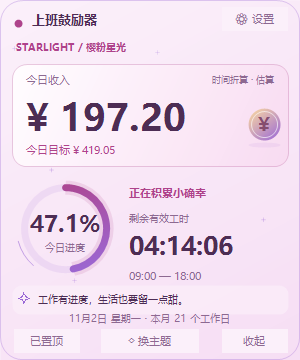
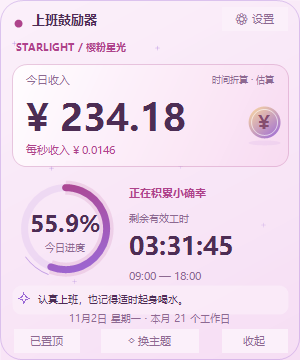
Show per-second earnings and add deduplicated daily clock-out summary

diff --git a/src/WorkEncourager.cs b/src/WorkEncourager.cs
@@ -21,6 +21,8 @@ public class Settings
     public bool RemindersEnabled = false;
     public int ReminderMode = 0;
     public int WaterIntervalMinutes = 30, RestroomIntervalMinutes = 30;
+    public bool DailySummaryEnabled = true;
+    public string LastSummaryDate = "";
     public string ManualMonth = DateTime.Today.ToString("yyyy-MM");
     public DateTime DoubleSaturday = new DateTime(2026, 10, 31);
 
@@ -50,7 +52,7 @@ public sealed class Snapshot
     public bool WorkingDay;
     public double Total, Elapsed, Progress, Remaining;
     public int MonthDays;
-    public decimal Daily, Earned;
+    public decimal Daily, Earned, PerSecond;
     public string Status;
 }
 
@@ -98,9 +100,16 @@ public static class WorkClock
         result.Remaining = total - result.Elapsed;
         result.MonthDays = s.ManualDays && s.ManualMonth == now.ToString("yyyy-MM") ? s.Days : CountDays(s, now);
         result.Daily = s.MonthlySalary / result.MonthDays;
+        result.PerSecond = result.Daily / (decimal)total;
         result.Earned = result.Daily * (decimal)result.Progress;
         result.Status = !result.WorkingDay ? "今日休息" : now < start ? "尚未开工" : now >= end ? "今日已下班" : s.HasBreak && now >= pause && now < resume ? "午休充电中" : "正在积累小确幸";
         return result;
+    }
+    public static bool SummaryDue(Settings settings, DateTime now)
+    {
+        // 只补发当天的总结，日期随配置保存，重启和重新打开设置都不会重复弹出。
+        return settings.DailySummaryEnabled && settings.MonthlySalary > 0 && IsWorkingDay(settings, now) &&
+            now.TimeOfDay >= TimeSpan.Parse(settings.End) && settings.LastSummaryDate != now.ToString("yyyy-MM-dd", CultureInfo.InvariantCulture);
     }
 }
 
@@ -165,7 +174,7 @@ public sealed class SettingsForm : Form
     private NumericUpDown salary, dayCount, waterInterval, restroomInterval;
     private ComboBox mode, rest, reminderMode, widgetSize;
     private DateTimePicker start, end, pause, resume, anchor;
-    private CheckBox lunch, manual, onTop, reminders;
+    private CheckBox lunch, manual, onTop, reminders, dailySummary;
     private Label calculated;
     private readonly Color ink = Color.FromArgb(32, 47, 44);
 
@@ -176,7 +185,7 @@ public sealed class SettingsForm : Form
         Font = new Font("Microsoft YaHei UI", 10);
         BackColor = Color.FromArgb(245, 248, 245);
         ForeColor = ink;
-        ClientSize = new Size(470, 818);
+        ClientSize = new Size(470, 854);
         FormBorderStyle = FormBorderStyle.FixedDialog;
         MaximizeBox = false; MinimizeBox = false; StartPosition = FormStartPosition.CenterScreen;
         AutoScaleMode = AutoScaleMode.Dpi;
@@ -218,13 +227,14 @@ public sealed class SettingsForm : Form
         waterInterval = new NumericUpDown { Name = "WaterInterval", Location = new Point(155, 574), Width = 62, Minimum = 1, Maximum = 1440, Value = settings.WaterIntervalMinutes }; Controls.Add(waterInterval);
         LabelAt("如厕间隔 / 分", 236, 576, 127);
         restroomInterval = new NumericUpDown { Name = "RestroomInterval", Location = new Point(379, 574), Width = 62, Minimum = 1, Maximum = 1440, Value = settings.RestroomIntervalMinutes }; Controls.Add(restroomInterval);
-        Label reminderNote = LabelAt("按各自间隔累计上班时间，午休暂停。\n同时到期合并弹窗；保存设置或重启后重新计时。", 24, 619, 422);
+        dailySummary = new CheckBox { Name = "DailySummary", Text = "下班时弹窗汇总今日收入", Location = new Point(24, 617), Size = new Size(410, 29), Checked = settings.DailySummaryEnabled }; Controls.Add(dailySummary);
+        Label reminderNote = LabelAt("间隔按上班时间累计，午休暂停，同时到期合并。\n下班总结当天补发一次；保存或重启重计休息间隔。", 24, 655, 422);
         reminderNote.Size = new Size(422, 50); reminderNote.Font = new Font(Font.FontFamily, 9);
-        Label note = LabelAt("自动天数不含节假日和调休；手动覆盖仅当月有效。\n手动天数影响日薪；每日是否上班仍按休息制判断。", 24, 682, 422);
+        Label note = LabelAt("自动天数不含节假日和调休；手动覆盖仅当月有效。\n手动天数影响日薪；每日是否上班仍按休息制判断。", 24, 718, 422);
         note.Size = new Size(422, 52); note.Font = new Font(Font.FontFamily, 9); note.ForeColor = calculated.ForeColor;
-        Button save = new Button { Text = "保存设置", Location = new Point(252, 751), Size = new Size(189, 43), BackColor = Color.FromArgb(31, 94, 74), ForeColor = Color.White, FlatStyle = FlatStyle.Flat };
+        Button save = new Button { Text = "保存设置", Location = new Point(252, 787), Size = new Size(189, 43), BackColor = Color.FromArgb(31, 94, 74), ForeColor = Color.White, FlatStyle = FlatStyle.Flat };
         save.FlatAppearance.BorderSize = 0; Controls.Add(save);
-        Button cancel = new Button { Text = "取消", Location = new Point(142, 751), Size = new Size(94, 43), DialogResult = DialogResult.Cancel }; Controls.Add(cancel);
+        Button cancel = new Button { Text = "取消", Location = new Point(142, 787), Size = new Size(94, 43), DialogResult = DialogResult.Cancel }; Controls.Add(cancel);
         AcceptButton = save; CancelButton = cancel;
         if (settings.Theme == 0)
         {
@@ -290,6 +300,7 @@ public sealed class SettingsForm : Form
             next.HasBreak = lunch.Checked; next.BreakStart = pause.Value.ToString("HH:mm"); next.BreakEnd = resume.Value.ToString("HH:mm"); next.AlwaysOnTop = onTop.Checked;
             next.RemindersEnabled = reminders.Checked; next.ReminderMode = reminderMode.SelectedIndex;
             next.WaterIntervalMinutes = (int)waterInterval.Value; next.RestroomIntervalMinutes = (int)restroomInterval.Value;
+            next.DailySummaryEnabled = dailySummary.Checked;
             next.WidgetSize = widgetSize.SelectedIndex;
             try { Storage.Save(next); Result = next; DialogResult = DialogResult.OK; Close(); }
             catch (Exception ex) { MessageBox.Show(this, ex.Message, "设置未保存", MessageBoxButtons.OK, MessageBoxIcon.Warning); }
@@ -311,10 +322,12 @@ public sealed class ReminderPopup : Form
 {
     private readonly System.Windows.Forms.Timer dismiss = new System.Windows.Forms.Timer();
     private readonly Color accent;
-    public ReminderPopup(string message, int theme)
+    private readonly bool summary;
+    public ReminderPopup(string message, int theme, bool dailySummary = false)
     {
+        summary = dailySummary;
         bool pink = theme == 1;
-        Text = "休息提醒 · 上班鼓励器"; ClientSize = new Size(350, 177);
+        Text = summary ? "下班总结 · 上班鼓励器" : "休息提醒 · 上班鼓励器"; ClientSize = new Size(350, 177);
         AutoScaleMode = AutoScaleMode.None; FormBorderStyle = FormBorderStyle.None;
         StartPosition = FormStartPosition.Manual; ShowInTaskbar = false; TopMost = true;
         BackColor = pink ? Color.FromArgb(253, 239, 250) : Color.FromArgb(20, 30, 53);
@@ -324,7 +337,7 @@ public sealed class ReminderPopup : Form
         Rectangle area = Screen.FromPoint(Cursor.Position).WorkingArea;
         Location = new Point(area.Right - Width - 20, area.Bottom - Height - 20);
         using (GraphicsPath path = Widget.Rounded(ClientRectangle, 18)) Region = new Region(path);
-        Controls.Add(new Label { Text = "该给自己一点休息时间了", Font = new Font(Font.FontFamily, 11, FontStyle.Bold), Bounds = new Rectangle(72, 24, 260, 27), ForeColor = ForeColor });
+        Controls.Add(new Label { Text = summary ? "下班啦，今天辛苦了！" : "该给自己一点休息时间了", Font = new Font(Font.FontFamily, 11, FontStyle.Bold), Bounds = new Rectangle(72, 24, 260, 27), ForeColor = ForeColor });
         Controls.Add(new Label { Text = message, Bounds = new Rectangle(72, 61, 258, 47), ForeColor = ForeColor });
         Button close = new Button { Text = "知道了", Bounds = new Rectangle(232, 126, 96, 31), FlatStyle = FlatStyle.Flat, BackColor = BackColor, ForeColor = accent, Cursor = Cursors.Hand };
         close.FlatAppearance.BorderColor = accent; close.Click += delegate { Close(); }; Controls.Add(close);
@@ -344,8 +357,16 @@ public sealed class ReminderPopup : Form
         using (Pen pen = new Pen(accent, 2))
         {
             using (GraphicsPath path = Widget.Rounded(new Rectangle(0, 0, Width - 1, Height - 1), 18)) g.DrawPath(pen, path);
-            g.DrawLine(pen, 26, 38, 30, 68); g.DrawLine(pen, 30, 68, 49, 68); g.DrawLine(pen, 49, 68, 53, 38); g.DrawLine(pen, 26, 38, 53, 38);
-            g.DrawArc(pen, 46, 43, 15, 17, -90, 180); g.DrawLine(pen, 31, 51, 48, 51);
+            if (summary)
+            {
+                g.DrawEllipse(pen, 25, 36, 33, 33);
+                TextRenderer.DrawText(g, "¥", Font, new Rectangle(25, 36, 33, 33), accent, TextFormatFlags.HorizontalCenter | TextFormatFlags.VerticalCenter);
+            }
+            else
+            {
+                g.DrawLine(pen, 26, 38, 30, 68); g.DrawLine(pen, 30, 68, 49, 68); g.DrawLine(pen, 49, 68, 53, 38); g.DrawLine(pen, 26, 38, 53, 38);
+                g.DrawArc(pen, 46, 43, 15, 17, -90, 180); g.DrawLine(pen, 31, 51, 48, 51);
+            }
         }
     }
     protected override void Dispose(bool disposing)
@@ -409,9 +430,20 @@ public sealed class Widget : Form
         reminderTimer.Interval = 1000;
         reminderTimer.Tick += delegate
         {
-            string message = reminderClock.Poll(settings, DateTime.Now);
+            DateTime now = DateTime.Now;
+            bool summary = WorkClock.SummaryDue(settings, now);
+            string message;
+            if (summary)
+            {
+                message = "你今日赚了 ¥" + WorkClock.At(settings, now).Earned.ToString("N2") + "（估算）。";
+                settings.LastSummaryDate = now.ToString("yyyy-MM-dd", CultureInfo.InvariantCulture);
+                try { Storage.Save(settings); }
+                catch (Exception ex) { MessageBox.Show(this, "下班总结状态未能保存，重启后可能再次提示。\n" + ex.Message, "设置未保存"); }
+                if (reminderPopup != null) reminderPopup.Close();
+            }
+            else message = reminderClock.Poll(settings, now);
             if (message == null || (reminderPopup != null && !reminderPopup.IsDisposed)) return;
-            ReminderPopup popup = new ReminderPopup(message, settings.Theme); reminderPopup = popup;
+            ReminderPopup popup = new ReminderPopup(message, settings.Theme, summary); reminderPopup = popup;
             popup.FormClosed += delegate { popup.Dispose(); if (reminderPopup == popup) reminderPopup = null; };
             popup.Show();
         };
@@ -543,7 +575,7 @@ public sealed class Widget : Form
         using (LinearGradientBrush gold = new LinearGradientBrush(new Rectangle(coinX, (int)coinY, coinSize, coinSize), pink ? Color.FromArgb(255, 222, 158) : accent, secondary, 50f)) g.FillEllipse(gold, coinX, coinY, coinSize, coinSize);
         using (Pen coin = new Pen(Color.FromArgb(160, Color.White))) g.DrawEllipse(coin, coinX + 3, coinY + 3, coinSize - 6, coinSize - 6);
         Write(g, "¥", mini ? 12 : 14, pink ? Color.FromArgb(133, 77, 110) : Color.FromArgb(15, 37, 66), new RectangleF(coinX, coinY, coinSize, coinSize), FontStyle.Bold, StringAlignment.Center);
-        Write(g, settings.MonthlySalary == 0 ? "填入月薪，点亮收入进度" : "今日目标 ¥ " + value.Daily.ToString("N2"), mini ? 7.5f : 8, accent, new RectangleF(pad + 12, mini ? 118 : 141, Width - 40, 19), FontStyle.Regular, StringAlignment.Near);
+        Write(g, settings.MonthlySalary == 0 ? "设置薪资后显示每秒收入" : "每秒收入 ¥ " + value.PerSecond.ToString(value.PerSecond >= 0.0001m ? "0.0000" : "0.0000########"), mini ? 7.5f : 8, accent, new RectangleF(pad + 12, mini ? 118 : 141, Width - 40, 19), FontStyle.Regular, StringAlignment.Near);
         int rx = mini ? 20 : 24, ry = mini ? 154 : 187, diameter = mini ? 66 : 82;
         Rectangle ring = new Rectangle(rx, ry, diameter, diameter);
         using (Pen track = new Pen(Color.FromArgb(30, secondary), mini ? 6 : 7)) g.DrawEllipse(track, ring);
@@ -585,7 +617,7 @@ public static class Program
         {
             for (int theme = 0; theme < 2; theme++)
             for (int size = 0; size < 2; size++)
-                using (Widget preview = new Widget(new Settings { MonthlySalary = 8800, Theme = theme, WidgetSize = size }))
+                using (Widget preview = new Widget(new Settings { MonthlySalary = 8800, Theme = theme, WidgetSize = size, DailySummaryEnabled = false }))
                 using (Bitmap bitmap = new Bitmap(preview.Width, preview.Height))
                 {
                     preview.Opacity = 0; preview.Show(); Application.DoEvents(); preview.DrawToBitmap(bitmap, preview.ClientRectangle); preview.Hide();
@@ -597,6 +629,13 @@ public static class Program
                 {
                     preview.Opacity = 0; preview.Show(); Application.DoEvents(); preview.DrawToBitmap(bitmap, preview.ClientRectangle); preview.Hide();
                     bitmap.Save(Path.Combine(AppDomain.CurrentDomain.BaseDirectory, theme == 0 ? "reminder-neon.png" : "reminder-starlight.png"));
+                }
+            for (int theme = 0; theme < 2; theme++)
+                using (ReminderPopup preview = new ReminderPopup("你今日赚了 ¥400.00（估算）。", theme, true))
+                using (Bitmap bitmap = new Bitmap(preview.Width, preview.Height))
+                {
+                    preview.Opacity = 0; preview.Show(); Application.DoEvents(); preview.DrawToBitmap(bitmap, preview.ClientRectangle); preview.Hide();
+                    bitmap.Save(Path.Combine(AppDomain.CurrentDomain.BaseDirectory, theme == 0 ? "summary-neon.png" : "summary-starlight.png"));
                 }
             using (SettingsForm preview = new SettingsForm(new Settings { MonthlySalary = 8800 }))
             {
@@ -638,7 +677,7 @@ public static class Tests
         };
         try
         {
-            Settings s = new Settings { MonthlySalary = 8800, ManualDays = true, Days = 22, ManualMonth = "2026-11" };
+            Settings s = new Settings { MonthlySalary = 8800, ManualDays = true, Days = 22, ManualMonth = "2026-11", DailySummaryEnabled = false };
             s.Validate();
             Snapshot v = WorkClock.At(s, new DateTime(2026, 11, 2, 8, 0, 0));
             check(v.Progress == 0 && v.Earned == 0, "Before work stays at zero");
@@ -651,10 +690,12 @@ public static class Tests
             check(v.Elapsed == noon.Elapsed, "Lunch end boundary");
             v = WorkClock.At(s, new DateTime(2026, 11, 2, 14, 0, 0));
             check(v.Progress == 0.5 && v.Earned == 200, "Half day produces half daily salary");
+            check(v.PerSecond == 400m / 28800m, "Per-second amount uses daily salary and effective working seconds");
             v = WorkClock.At(s, new DateTime(2026, 11, 2, 18, 0, 0));
             check(v.Progress == 1 && v.Earned == 400 && v.Remaining == 0, "End boundary caps income");
             v = WorkClock.At(s, new DateTime(2026, 11, 2, 23, 59, 59));
             check(v.Progress == 1 && v.Earned == 400, "After hours stays capped");
+            check(v.PerSecond == 400m / 28800m, "Display rate does not change after clock-out");
             v = WorkClock.At(s, new DateTime(2026, 11, 3, 0, 0, 0));
             check(v.Progress == 0 && v.Earned == 0, "Midnight resets today's income");
             v = WorkClock.At(s, new DateTime(2026, 11, 1, 14, 0, 0));
@@ -816,6 +857,36 @@ public static class Tests
             Storage.Save(remind);
             check(Storage.Load().RemindersEnabled && Storage.Load().ReminderMode == 2, "Reminder options persist");
             check(Storage.Load().WaterIntervalMinutes == 1 && Storage.Load().RestroomIntervalMinutes == 40, "Distinct custom intervals survive storage reload");
+            Settings summary = new Settings { MonthlySalary = 8800, ManualDays = true, Days = 22, ManualMonth = "2026-11" };
+            DateTime offWork = new DateTime(2026, 11, 2, 18, 0, 0);
+            check(!WorkClock.SummaryDue(summary, offWork.AddSeconds(-1)), "No daily summary before clock-out");
+            check(WorkClock.SummaryDue(summary, offWork), "Daily summary is due at clock-out");
+            check(WorkClock.SummaryDue(summary, offWork.AddHours(3)), "Reopening later that day catches up once");
+            check(WorkClock.At(summary, offWork).Earned == 400, "Summary uses completed day's estimated earnings");
+            check(!summary.RemindersEnabled && WorkClock.SummaryDue(summary, offWork), "Daily summary works independently of rest reminder switch");
+            summary.LastSummaryDate = "2026-11-02";
+            check(!WorkClock.SummaryDue(summary, offWork.AddHours(4)), "Same-day summary never repeats");
+            Storage.Save(summary);
+            check(!WorkClock.SummaryDue(Storage.Load(), offWork.AddHours(2)), "Summary deduplication survives restart");
+            check(WorkClock.SummaryDue(summary, offWork.AddDays(1)), "Next workday receives its own summary");
+            check(!WorkClock.SummaryDue(summary, new DateTime(2026, 11, 8, 19, 0, 0)), "Rest days never receive earnings summary");
+            summary.DailySummaryEnabled = false;
+            check(!WorkClock.SummaryDue(summary, offWork.AddDays(1)), "Daily summary can be disabled");
+            summary.DailySummaryEnabled = true; summary.MonthlySalary = 0;
+            check(!WorkClock.SummaryDue(summary, offWork.AddDays(1)), "Unconfigured salary does not produce summary popup");
+            using (StringReader legacy = new StringReader("<Settings><MonthlySalary>8800</MonthlySalary></Settings>"))
+            {
+                Settings old = (Settings)new XmlSerializer(typeof(Settings)).Deserialize(legacy);
+                check(old.DailySummaryEnabled && old.LastSummaryDate == "", "Legacy settings support new daily summary without losing salary");
+            }
+            summary.MonthlySalary = 8800; summary.LastSummaryDate = "";
+            using (SettingsForm dialog = new SettingsForm(summary))
+            {
+                dialog.Opacity = 0; dialog.Show(); Application.DoEvents();
+                summary.LastSummaryDate = "2026-11-02";
+                ((Button)dialog.AcceptButton).PerformClick();
+                check(Storage.Load().LastSummaryDate == "2026-11-02", "Saving an open settings dialog retains summary state updated meanwhile");
+            }
             using (StringReader legacy = new StringReader("<Settings><MonthlySalary>8800</MonthlySalary></Settings>"))
                 check(!((Settings)new XmlSerializer(typeof(Settings)).Deserialize(legacy)).RemindersEnabled, "Legacy settings keep reminders opt-in");
             using (ReminderPopup popup = new ReminderPopup("喝水时间到了，给自己补充一点水分。", 0))

diff --git a/README.md b/README.md
@@ -12,12 +12,13 @@ Windows 桌面悬浮挂件，显示当天上班进度、剩余有效工时和按
 
 - 自定义月薪、上下班时间和午休时间。
 - 单休、双休、大小周；按当月日历统计工作天数，也可手动覆盖当月天数。
-- 当天收入估算、环形进度和剩余有效工时。
+- 当天收入估算、每秒收入、环形进度和剩余有效工时；挂件不展示月薪或日薪目标。
 - 霓虹科技与樱粉星光双主题。
 - 紧凑版 300×360、迷你版 260×300，在设置中切换并记忆。
 - 拖动、置顶、收进托盘；双击托盘图标恢复。
 - 喝水、如厕分别设置 1–1440 分钟的提醒间隔，各自到期提醒；可只启用其中一项，同时到期合并弹窗。
 - 提醒午休暂停，下班和休息日静默；弹窗不抢焦点、不发声，15 秒自动关闭。
+- 下班弹窗汇总当天估算收入；当天晚些时候打开会补发一次，重启不重复，可在设置中关闭。
 
 ## 使用
 
@@ -26,6 +27,8 @@ Windows 桌面悬浮挂件，显示当天上班进度、剩余有效工时和按
 在本仓库的 Releases 页面下载免安装 ZIP，完整解压到有写入权限的目录，双击 `上班鼓励器.exe`。首次运行填写月薪与作息，保存后生效。提醒默认关闭，需要在设置中启用；可点击“预览提醒”试用。
 
 在设置中分别填写喝水、如厕间隔（分钟），例如 30 和 60，各自到期提醒，同时到期合并成一个弹窗。旧配置的间隔默认各 30 分钟，原先的双项交替模式改为分别计时。
+
+下班收入总结默认开启，可在设置中关闭；当天晚些时候打开会补发一次，同日重启不会重复。
 
 程序不自动设置开机启动。右键挂件或托盘图标，选择“退出”可完全关闭。
 
@@ -51,7 +54,7 @@ Windows 桌面悬浮挂件，显示当天上班进度、剩余有效工时和按
 
 ## 验证
 
-项目包含自动检查，覆盖收入边界、大小周、配置保存、主题、实际设置页尺寸切换、自定义提醒间隔及午休计时。
+项目包含自动检查，覆盖收入边界、每秒收入、大小周、配置保存、主题、实际设置页尺寸切换、自定义提醒间隔、午休计时及下班总结去重。
 
 自检会在可执行文件所在目录写入测试配置，请复制到独立目录执行，避免覆盖自己的设置：
 
